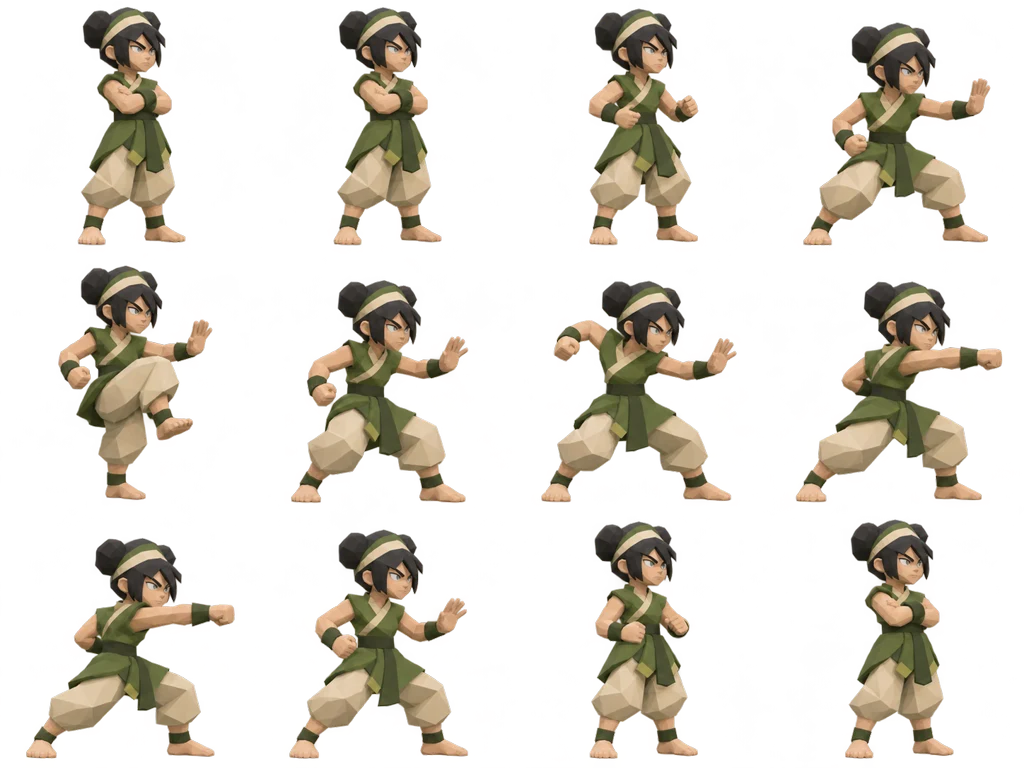
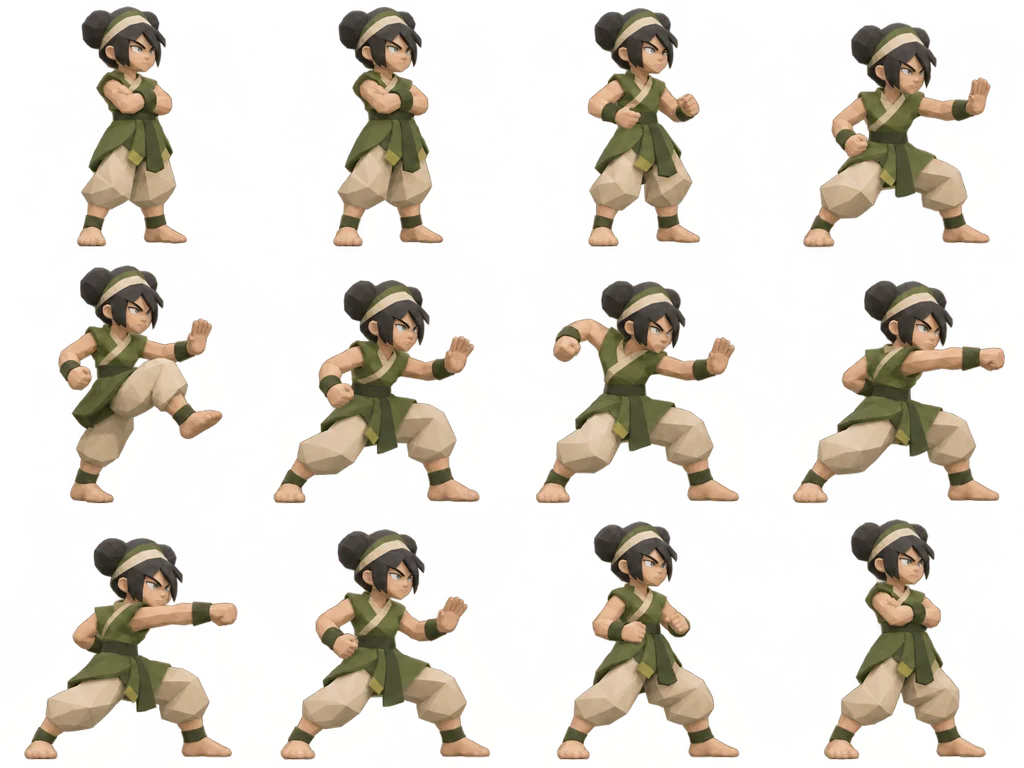
Use forward-foot stomp and forceful fast solid-stone barrage (v0.83.1)

diff --git a/assets/stone-bender-v83.js b/assets/stone-bender-v83.js
@@ -1,8 +1,8 @@
-/* Stone Bender: back-foot stomp, rising rectangular wall, shattering punch. */
+/* Stone Bender: forward-foot stomp, rising rectangular wall, shattering punch. */
 (function(root){
 'use strict';const C=v=>Math.max(0,Math.min(1,v)),L=(a,b,p)=>a+(b-a)*p,TAU=Math.PI*2;
-const image=new Image();image.src='./assets/stone-bender-v83.webp';
-const HIT_MS=325;
+const image=new Image();image.src='./assets/stone-bender-v83.webp?v=0.83.1';
+const HIT_MS=90;
 function poly(c,pts,color){c.fillStyle=color;c.beginPath();pts.forEach(([x,y],i)=>i?c.lineTo(x,y):c.moveTo(x,y));c.closePath();c.fill();}
 function pose(o){const p=C(o.progress),s=o.stage,t=o.target||{x:800,y:450};let frame=0,alpha=1,wall=0,burst=-1;
  if(s==='bender-appear')alpha=C(p*2);
@@ -10,7 +10,7 @@ function pose(o){const p=C(o.progress),s=o.stage,t=o.target||{x:800,y:450};let f
  if(s==='bender-stomp'){frame=p<.6?4:5;wall=C((p-.6)/.4)*.25;}
  if(s==='bender-wall'){frame=5;wall=L(.25,1,p);}
  if(s==='bender-punch'){frame=p<.45?6:7;wall=1;if(p>=.62){wall=0;burst=p*250-155;}}
- if(s==='bender-barrage'){frame=p<.45?8:9;burst=95+p*900;}
+ if(s==='bender-barrage'){frame=p<.45?8:9;burst=95+p*550;}
  if(s==='bender-exit'){frame=p<.5?10:11;alpha=1-p;}
  return{x:500,y:425,dir:t.x>=500?1:-1,frame,alpha,wall,burst};}
 function dust(c,x,y,p,strength=1){if(p<0||p>1)return;c.save();c.globalAlpha*=strength*(1-p);c.strokeStyle='#c7b895a0';c.lineWidth=3;c.beginPath();c.ellipse(x,y,12+130*p,4+32*p,0,0,TAU);c.stroke();
@@ -34,13 +34,28 @@ function draw(c,o){const p=C(o.progress),s=o.stage,b=pose(o);
  }
 }
 function items(o){const b=pose(o),target=o.target||{x:800,y:450},out=[];if(b.burst<0)return out;
- for(let i=0;i<36;i++){
-  const col=i%6,row=Math.floor(i/6),delay=i*5,flight=420+(i%5)*28,age=b.burst-delay;if(age<0){out.push({type:'rock',x:500+b.dir*(50+(col+.5)*15),y:425-(row+.5)*34,size:14,angle:0,seed:i,depthY:425});continue;}
-  const q=age/flight;if(q<=1){const start={x:500+b.dir*(50+(col+.5)*15),y:425-(row+.5)*34},end={x:target.x+Math.sin(i*7.1)*29,y:target.y-100+Math.cos(i*3.7)*35};out.push({type:'rock',x:L(start.x,end.x,q),y:L(start.y,end.y,q)-Math.sin(q*Math.PI)*(14+i%4*9),size:L(14,8+i%3*2,q),angle:q*(i%2?4:-4),seed:i,depthY:L(425,target.y,q)-.1});}
-  if(q>1&&age<flight+220)out.push({type:'impact',x:target.x+Math.sin(i*7.1)*29,y:target.y-100+Math.cos(i*3.7)*35,p:(age-flight)/220,seed:i,depthY:target.y+.1});
+ // Thick blocks burst almost simultaneously and cross the arena in about 0.2 seconds.
+ for(let i=0;i<24;i++){
+  const col=i%4,row=Math.floor(i/4),delay=(i%4)*7,flight=185+(i%3)*12,age=b.burst-delay;
+  const start={x:500+b.dir*(50+(col+.5)*22.5),y:425-(row+.5)*34},end={x:target.x+Math.sin(i*7.1)*22,y:target.y-95+Math.cos(i*3.7)*26};
+  const q=C(age/flight),dx=end.x-start.x,dy=end.y-start.y,len=Math.max(1,Math.hypot(dx,dy));
+  if(age<=flight)out.push({type:'rock',x:L(start.x,end.x,q),y:L(start.y,end.y,q),size:L(18,13,q),angle:q*(i%2?.55:-.55),seed:i,vx:dx/len,vy:dy/len,depthY:L(425,target.y,q)-.1});
+  if(age>flight&&age<flight+240)out.push({type:'impact',x:end.x,y:end.y,p:(age-flight)/240,seed:i,depthY:target.y+.1});
  }return out;}
 function drawItem(c,a){c.save();c.translate(a.x,a.y);
- if(a.type==='rock'){c.rotate(a.angle);const r=a.size;poly(c,[[-r*.8,-r*.7],[r*.45,-r],[r,-r*.1],[r*.65,r*.8],[-r*.5,r]],a.seed%2?'#817d69':'#a49a80');poly(c,[[-r*.8,-r*.7],[r*.45,-r],[r*.1,r*.1],[-r*.5,r]],'#b9ae91');poly(c,[[r*.1,r*.1],[r,-r*.1],[r*.65,r*.8],[-r*.5,r]],'#5f6658');}
- else{c.globalAlpha*=1-a.p;for(let i=0;i<3;i++){const angle=i*2.399+a.seed,r=4+a.p*17,x=Math.cos(angle)*r,y=Math.sin(angle)*r;poly(c,[[x-2,y-2],[x+3,y],[x,y+3]],'#b8a98c');}}c.restore();}
+ if(a.type==='rock'){
+  // Dust streaks point backward along the actual launch velocity.
+  for(let j=3;j>0;j--){c.save();c.globalAlpha*=.07+j*.035;c.strokeStyle='#b4aa91';c.lineWidth=3+j*2;c.lineCap='round';c.beginPath();c.moveTo(-a.vx*7,-a.vy*7);c.lineTo(-a.vx*(22+j*9),-a.vy*(22+j*9));c.stroke();c.restore();}
+  c.rotate(a.angle);const r=a.size;
+  // Solid, bevelled three-dimensional chunks with a dark side face, not flat triangles.
+  poly(c,[[-r*.75,-r*.7],[r*.4,-r*.85],[r*.9,-r*.45],[r*.85,r*.65],[-r*.4,r*.85],[-r*.8,r*.3]],a.seed%2?'#8b826d':'#a39a82');
+  poly(c,[[r*.4,-r*.85],[r*.9,-r*.45],[r*.85,r*.65],[r*.55,r*.9],[r*.45,r*.05]],'#50564b');
+  poly(c,[[-r*.75,-r*.7],[r*.4,-r*.85],[r*.9,-r*.45],[r*.1,-r*.3],[-r*.8,-r*.1]],'#c0b599');
+  poly(c,[[-r*.8,-r*.1],[r*.1,-r*.3],[r*.45,r*.05],[-r*.4,r*.85],[-r*.8,r*.3]],'#918a73');
+  c.strokeStyle='#656a58';c.lineWidth=1;c.beginPath();c.moveTo(-r*.3,-r*.45);c.lineTo(-r*.1,0);c.lineTo(-r*.35,r*.35);c.stroke();
+ }else{
+  c.globalAlpha*=1-a.p;const r=7+a.p*23,haze=c.createRadialGradient(0,0,0,0,0,r);haze.addColorStop(0,'#b9a78785');haze.addColorStop(1,'#b9a78700');c.fillStyle=haze;c.beginPath();c.ellipse(0,0,r,r*.8,0,0,TAU);c.fill();
+  for(let i=0;i<4;i++){const angle=i*2.399+a.seed,rr=5+a.p*31,x=Math.cos(angle)*rr,y=Math.sin(angle)*rr;poly(c,[[x-3,y-2],[x+4,y],[x+1,y+4],[x-3,y+2]],i%2?'#736e5c':'#b8a98c');}
+ }c.restore();}
 root.WIZARDRY_STONE_BENDER_V83={pose,draw,items,drawItem,hitAt:()=>HIT_MS};
 })(window);

diff --git a/arena.js b/arena.js
@@ -56,8 +56,8 @@
       short:"80% ACCURACY",description:"A wandering samurai drops into the arena, slowly reaches for his sheathed katana, then draws it in a flash and releases three rapid wind slashes at one enemy. Each slash deals 150 damage: 450 total. 80% spell accuracy"},
     {id:"reaper",name:"Reaper",school:"dark",cost:8,target:"enemy",kind:"reaper",damage:950,accuracy:.80,icon:"☠",rarity:"LEGENDARY",duration:3740,
       short:"80% ACCURACY",description:"A red-eyed hooded Reaper rises from a shadow circle, lunges and slashes for 950 damage. Applies Decaying Strength: the next successful damaging spell against that enemy deals 20% more damage, including all hits of that spell"},
-    {id:"bender",name:"Stone Bender",school:"earth",cost:5,target:"enemy",kind:"stonebender",damage:400,accuracy:.85,icon:"◆",rarity:"EPIC",duration:3950,
-      short:"85% ACCURACY",description:"An earthbender appears with arms crossed, takes a palm-and-fist stance, then stomps hard with her back foot to raise a huge rectangular stone wall. She punches it into a barrage of broken stones, dealing 400 total damage to one enemy"}
+    {id:"bender",name:"Stone Bender",school:"earth",cost:5,target:"enemy",kind:"stonebender",damage:400,accuracy:.85,icon:"◆",rarity:"EPIC",duration:3600,
+      short:"85% ACCURACY",description:"An earthbender appears with arms crossed, takes a palm-and-fist stance, then lifts her forward foot and stomps hard in front of her to raise a huge rectangular stone wall. She punches it into a barrage of broken stones, dealing 400 total damage to one enemy"}
   ];
   const BY_ID=Object.fromEntries(CARDS.map(x=>[x.id,x]));
   const MAX_HAND_SIZE=5;
@@ -543,7 +543,7 @@
     // fissure; its animation clock is never reset at a combat stage boundary.
     if(["golem-travel","golem-impact"].includes(a.stage))
       a.golemPostSlamMs=(a.golemPostSlamMs||0)+Math.max(0,deltaMs);
-    if(a.stage==="bender-barrage"&&a.elapsed>=325&&!a.applied)applyBenderStrike(a);
+    if(a.stage==="bender-barrage"&&a.elapsed>=90&&!a.applied)applyBenderStrike(a);
     if(a.stage==="reaper-slash"&&p>=.4&&!a.applied)applyReaperStrike(a);
     if(a.stage==="ronin-volley"&&a.runeResult==="success")
       for(let i=0;i<3;i++)if(a.elapsed>=260+i*135)applyRoninHit(a,i);
@@ -637,7 +637,7 @@
     }else if(a.stage==="bender-wall"){
       startStage(a,"bender-punch",250);
     }else if(a.stage==="bender-punch"){
-      startStage(a,"bender-barrage",900);
+      startStage(a,"bender-barrage",550);
     }else if(a.stage==="bender-barrage"){
       if(!a.applied)applyBenderStrike(a);
       startStage(a,"bender-exit",600);

diff --git a/arena.html b/arena.html
@@ -128,13 +128,13 @@
 <script src="./assets/baby-dragon-fire-v61.js?v=0.65.0" defer></script>
 <script src="./assets/polar-bear-v67.js?v=0.68.0" defer></script>
 <script src="./assets/reef-rush-v77.js?v=0.78.1" defer></script>
-<script src="./assets/stone-bender-v83.js?v=0.83.0" defer></script>
+<script src="./assets/stone-bender-v83.js?v=0.83.1" defer></script>
 <script src="./assets/reaper-v82.js?v=0.82.1" defer></script>
 <script src="./assets/wind-slashes-v81.js?v=0.82.1" defer></script>
 <script src="./assets/flaming-arrows-v80.js?v=0.80.1" defer></script>
 <script src="./assets/thunderclap-v79.js?v=0.79.1" defer></script>
-<script src="./assets/card-art-v70.js?v=0.83.0" defer></script>
+<script src="./assets/card-art-v70.js?v=0.83.1" defer></script>
 <script src="./assets/hand-swipe-v71.js?v=0.72.0" defer></script>
-<script src="./arena.js?v=0.83.0" defer></script>
+<script src="./arena.js?v=0.83.1" defer></script>
 </body>
 </html>

diff --git a/assets/card-art-v70.js b/assets/card-art-v70.js
@@ -3,7 +3,7 @@
 'use strict';
 const portraits={},listeners=[];
 const SPECS={
- bender:{source:()=> './assets/stone-bender-v83.webp',rect:im=>[im.naturalWidth*3/4,0,im.naturalWidth/4,im.naturalHeight/3]},
+ bender:{source:()=> './assets/stone-bender-v83.webp?v=0.83.1',rect:im=>[im.naturalWidth*3/4,0,im.naturalWidth/4,im.naturalHeight/3]},
  reaper:{source:()=> './assets/reaper-v82.webp',rect:im=>[im.naturalWidth*3/4,0,im.naturalWidth/4,im.naturalHeight/3]},
  thunder:{source:()=> './assets/thunderclap-v79.webp',rect:im=>[im.naturalWidth/4,im.naturalHeight/3,im.naturalWidth/4,im.naturalHeight/3]},
  shark:{source:()=> './assets/reef-rush-v77.webp',rect:im=>[im.naturalWidth/2,im.naturalHeight/2,im.naturalWidth/4,im.naturalHeight/4]},
